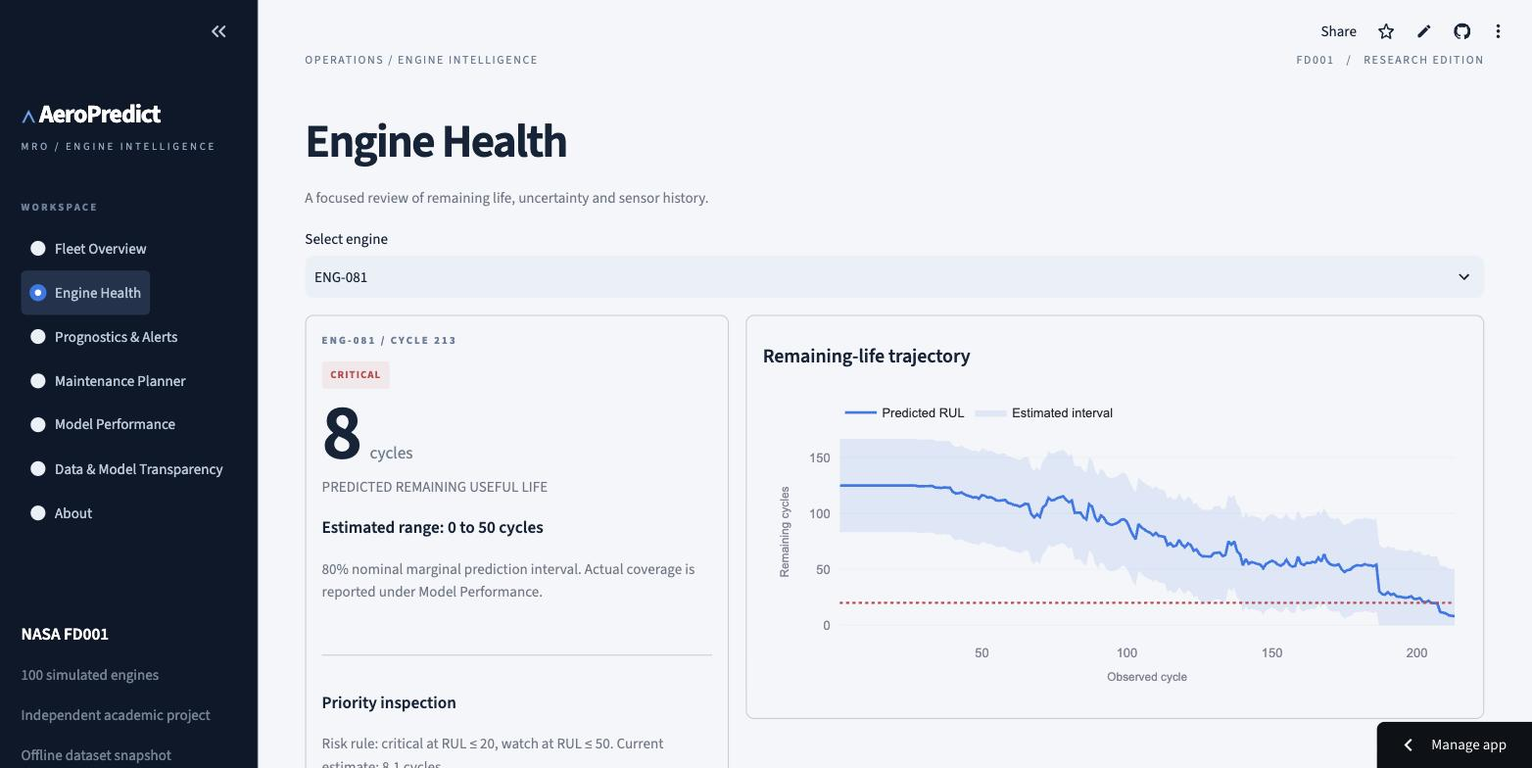
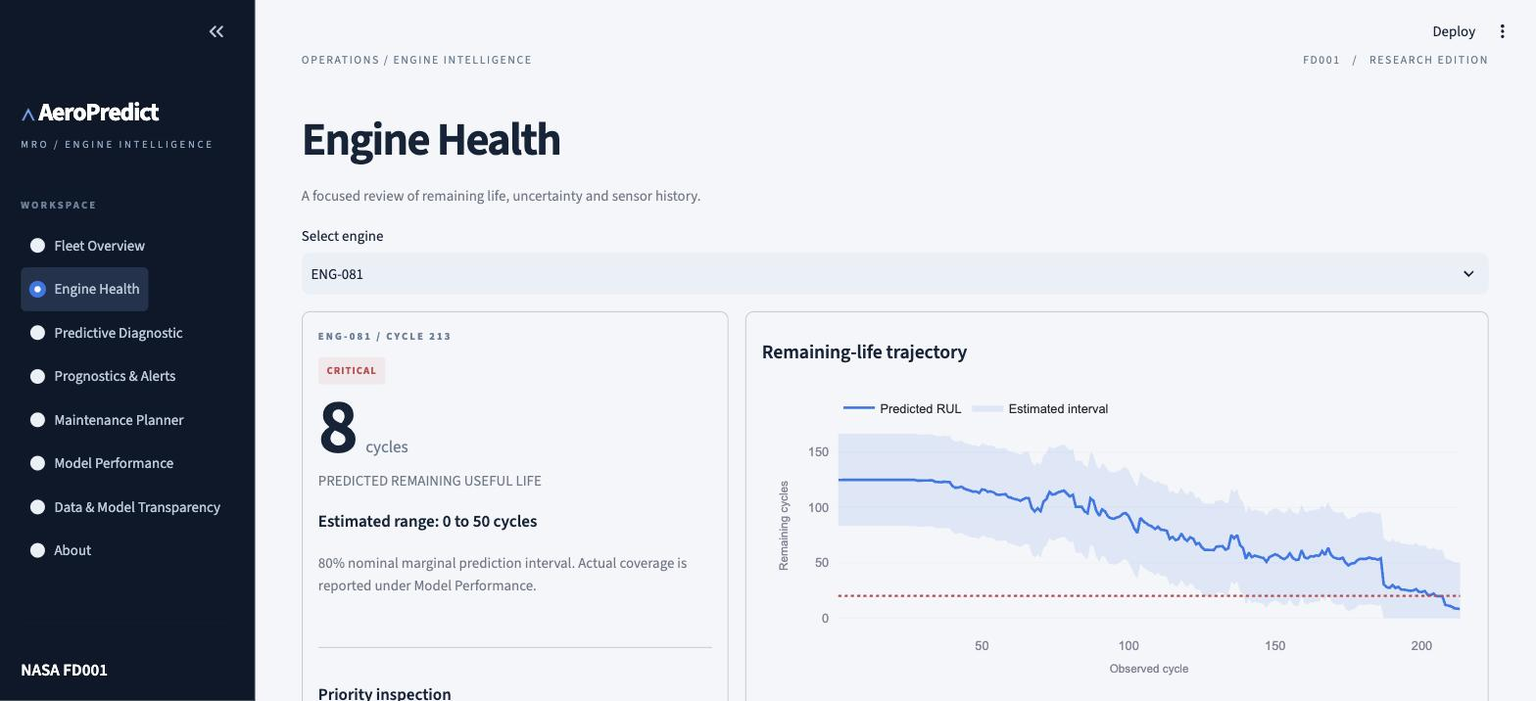
Refresh AeroPredict documentation and screenshots for predictive diagnostic release
- Rewrite README.md hero/structure: A350 home as lead screenshot, Predictive
  Diagnostic and Interactive A350 Digital Twin as first-class sections, updated
  application feature list distinguishing Engine Health (benchmark review) from
  Predictive Diagnostic (new inference).
- Capture and commit current-product screenshots (A350 home, equipment
  exploration, Predictive Diagnostic CRITICAL scenario, Engine Health, Model
  Performance) from the locally running build; remove the two superseded,
  now-unreferenced screenshots (fleet-overview.jpg, maintenance-planner.jpg)
  whose classic-workspace nav predates the Predictive Diagnostic page.
- Add the new-inference architecture diagram and synthetic-scenario boundary
  to docs/architecture.md; add Predictive Diagnostic's input schema and a
  data-domain table to docs/data_dictionary.md; note the unchanged model/
  metrics in docs/model_card.md; append this release's validation results to
  docs/validation.md; update docs/deployment.md's stale screenshot list.
- Add a current-state entry to frontend/README.md documenting the A350-900
  exterior (superseding the A320neo section) and the new Predictive Diagnostic
  page.

No training, model, metric, or A350 geometry/camera file is touched by this
commit. Official test metrics (MAE 14.1259, RMSE 18.8587, R2 0.7940) are
unchanged and explicitly preserved throughout.

Claude-Session: https://claude.ai/code/session_01UDKKPuTBDM2PJoDwG8epG5

diff --git a/README.md b/README.md
@@ -1,37 +1,41 @@
 # AeroPredict MRO
-### Predictive Aircraft Engine Health & Maintenance Decision Support
+### Predictive Maintenance & Engine Prognostics Decision Support
 
-A clear review workspace for simulated turbofan engines: understand fleet health, inspect remaining-life estimates and prioritize engineering attention. Built as an independent end-to-end academic product using public NASA C-MAPSS FD001.
+A review workspace for simulated turbofan engines: turn sensor histories into remaining-life estimates, uncertainty and prioritized engineering attention. Built as an independent end-to-end academic product using public NASA C-MAPSS FD001.
 
-## Live demo
-[aeropredict-mro.streamlit.app](https://aeropredict-mro.streamlit.app/). Deployed from the `main` branch on Streamlit Community Cloud, Python 3.12. The application also runs locally with the commands below.
+**[Open the live demo →](https://aeropredict-mro.streamlit.app/)** · deployed from `main` on Streamlit Community Cloud, Python 3.12.
 
-![Fleet Overview](docs/screenshots/fleet-overview.jpg)
-![Engine Health](docs/screenshots/engine-health.jpg)
-![Maintenance Planner](docs/screenshots/maintenance-planner.jpg)
-![Model Performance](docs/screenshots/model-performance.jpg)
+![A350 Home](docs/screenshots/a350-home.jpg)
 
+## What AeroPredict does
 
-## Interactive Engine Studio
+```text
+sensor histories → feature engineering → trained model → RUL → uncertainty → health & risk → inspection decision support
+```
 
-The default application now opens a French-language React + Three.js workspace:
-explore five engine assemblies, rotate/zoom, reveal the interior, separate sections,
-follow a guided tour, inspect real prepared NASA predictions, filter alerts and
-export a review list. A software renderer keeps the 3D usable without WebGL.
+Every prediction traces back to the same saved model and the same causal feature pipeline, whether it reviews one of the 100 NASA benchmark engines already on file (**Engine Health**) or runs fresh inference on observations a user supplies (**Predictive Diagnostic**). Nothing is retrained at request time.
 
-[Open AeroPredict](https://aeropredict-mro.streamlit.app/) ·
-[Original scientific views](https://aeropredict-mro.streamlit.app/?experience=classic)
+## Predictive Diagnostic
 
-The 3D is an original simplified teaching model, not certified CAD or a component
-fault diagnosis. GPU rendering was not available in the validation browser;
-software-rendered 3D and the core navigation were verified on the deployed preview.
-See [frontend build and architecture](frontend/README.md) for reproducible builds.
+Run the trained model against new engine observations, from the classic workspace (`?experience=classic`, **Predictive Diagnostic**, next to Engine Health):
 
-## Problem and business value
-Sensor histories are difficult to prioritize directly. AeroPredict turns them into RUL estimates, uncertainty intervals and transparent inspection review categories. It demonstrates a decision workflow, not quantified real-world savings or operational safety performance.
+- **Demo engine** — five synthetic scenarios (`SYN-ENG-001`…`005`) spanning healthy to critical
+- **Manual entry** — an editable table, one row per consecutive cycle
+- **Upload CSV** — a downloadable template, schema validation, then inference
 
-## Results
-Selected model: **Random forest**, selected on a separate 20-engine validation sample. These results are measured on all 100 official FD001 test endpoints, using uncapped truth.
+Supply at least 5 consecutive cycles (10+ recommended) of `cycle, s2, s3, s4, s6, s7, s8, s9, s11, s12, s13, s14, s15, s17, s20, s21`. Validation catches missing, non-numeric, infinite or duplicated values, gaps, unordered rows and out-of-schema columns; an optional `engine_id` is metadata only and never enters model features. Every result — predicted RUL, interval, health score, risk, P(RUL ≤ 30), maintenance priority, recommendation, RUL/uncertainty charts and sensor evidence — comes from the same `artifacts/models/bundle.joblib` through `src.inference.predict`, with a training-domain compatibility warning when inputs fall outside the fitted sensor ranges.
+
+![Predictive Diagnostic](docs/screenshots/predictive-diagnostic.jpg)
+
+## Interactive A350 Digital Twin
+
+The default landing experience explains predictive maintenance before opening any data: a rotatable, original procedural A350-900 exterior with six labelled zones — engine, APU, brakes, hydraulics, air conditioning pack and flap actuator. Selecting a zone transitions from the assembled aircraft into a focused, exploded equipment view, and back. Five non-engine systems carry synthetic histories for twelve fictitious aircraft, entirely separate from the NASA engine predictions. A Canvas 2D software renderer keeps every view usable without WebGL.
+
+![Equipment exploration](docs/screenshots/equipment-exploration.jpg)
+
+## Scientific Engine Analytics
+
+The original seven-page workspace (`?experience=classic`) reviews the 100 NASA FD001 benchmark engines: Fleet Overview, **Engine Health** (RUL history, uncertainty, sensor trajectories), Prognostics & Alerts, Maintenance Planner, **Model Performance** (comparison, residuals, classification, importance) and Data & Model Transparency.
 
 | Metric | Official test result |
 |---|---:|
@@ -40,17 +44,27 @@ Selected model: **Random forest**, selected on a separate 20-engine validation s
 | R2 | 0.7940 |
 | NASA_score | 648.2540 |
 
-
 Classifier recall: **0.84**, precision: **0.875**, F1: **0.857**. Interval coverage: **97%**, versus 80% nominal target; intervals are wide (radius 41.7 cycles). Coverage must be assessed alongside width. The uncertainty method does not establish individual-engine safety.
 
+![Engine Health](docs/screenshots/engine-health.jpg)
+![Model Performance](docs/screenshots/model-performance.jpg)
+
 ## Application
-1. Fleet Overview: executive KPIs, fleet balance, remaining-life map and priority engines.
-2. Engine Health: engine selection, RUL history, uncertainty, sensor trajectories and revealed historical truth.
-3. Prognostics & Alerts: filterable endpoint review queue with reasons and recommendations.
-4. Maintenance Planner: capacity scenario, ranked reviews, priority matrix and CSV export.
-5. Model Performance: comparison, residuals, classification, importance and operational interpretation.
-6. Data & Model Transparency: pipeline, quality controls, leakage prevention and scope.
-7. About: product purpose, architecture, references and independence statement.
+
+| Page | What it does |
+|---|---|
+| A350 Home / Aircraft Exploration | Landing experience explaining predictive maintenance around a rotatable A350-900 |
+| Equipment Exploration | Engine, APU, brakes, hydraulics, air conditioning, actuator — assembled/exploded views |
+| **Predictive Diagnostic** | **Runs new inference** on a demo, manually entered or uploaded engine history |
+| Fleet Overview | Executive KPIs, fleet balance, remaining-life map, priority engines |
+| **Engine Health** | **Reviews benchmark engines already on file** — RUL history, uncertainty, sensor trajectories |
+| Prognostics & Alerts | Filterable endpoint review queue with reasons and recommendations |
+| Maintenance Planner | Capacity scenario, ranked reviews, priority matrix, CSV export |
+| Model Performance | Comparison, residuals, classification, importance, operational interpretation |
+| Data & Model Transparency | Pipeline, quality controls, leakage prevention, scope |
+| About | Product purpose, architecture, references, independence statement |
+
+The distinction that matters: **Engine Health** analyzes benchmark engines already present in the prepared NASA data; **Predictive Diagnostic** runs new inference from observations a user supplies, through the identical saved model.
 
 ## Architecture and dataset
 See [architecture](docs/architecture.md), [data dictionary](docs/data_dictionary.md) and [methodology](docs/methodology.md). FD001 has 100 training and 100 test engines, 20,631 train observations and 13,096 test observations. Training engines split 60/20/20 for fit, selection and calibration. Raw data and prepared artifacts are included for a self-contained demo.
@@ -79,31 +93,43 @@ python -m compileall -q src scripts app.py
 
 Training is offline. Streamlit reads cached prepared files only. It does not download data or train at startup. Pinning scikit-learn is required to load the saved model consistently. Load joblib files only from trusted sources.
 
+For the React + Three.js aircraft/equipment frontend, see [frontend build and architecture](frontend/README.md) — `python scripts/export_studio_data.py`, `npm ci --prefix frontend`, `npm run build --prefix frontend`, `python scripts/package_studio.py`, then `python -m pytest -q`.
+
 ## Repository structure
 | Directory | Purpose |
 |---|---|
-| src/ | Shared features, inference, decisions and interface |
-| scripts/ | Data acquisition, training, documentation and notebooks |
+| src/ | Shared features, inference, decisions, diagnostic sandbox and interface |
+| frontend/ | React + Three.js aircraft/equipment studio |
+| scripts/ | Data acquisition, training, documentation, notebooks and synthetic generators |
 | data/raw/ | Official FD001 data and provenance |
 | data/processed/ | Precomputed fleet and sensor histories |
+| data/synthetic/ | Synthetic equipment scenarios and diagnostic-sandbox engines (excluded from training/metrics) |
 | artifacts/models/ | Trained models |
 | artifacts/metrics/ | Actual evaluation outputs |
 | notebooks/ | Executed educational analysis |
-| tests/ | Leakage, inference, rule and interface checks |
-| docs/ | Methodology, architecture, model card and design |
+| tests/ | Leakage, inference, rule, diagnostic and interface checks |
+| docs/ | Methodology, architecture, model card, validation and design |
 | reports/ | Academic report |
 
-## Validation and screenshots
-See [validation status](docs/validation.md) for exactly which checks were completed, including the cloud deployment and browser verification.
+## Data and model transparency
+
+Four data domains stay explicitly separate, never blended:
+
+1. **NASA FD001 raw dataset** — the official train/test archive, used for training and evaluation.
+2. **Processed benchmark outputs** — precomputed predictions for the 100 FD001 engines shown in Engine Health, Fleet Overview, etc.
+3. **Synthetic aircraft equipment scenarios** (`data/synthetic/equipment_signals.csv`) — twelve fictitious aircraft driving the APU/brakes/hydraulics/air-conditioning/actuator views, with illustrative thresholds, not calibrated RUL.
+4. **Synthetic diagnostic-engine sandbox** (`data/synthetic/diagnostic_engines.csv`) — 5 engines × 30 observations backing Predictive Diagnostic's demo mode. These are training-derived, perturbed histories, not independent validation engines. They **never** participate in training, validation, calibration or the official metrics above — they exist only to demonstrate inference on new data.
+
+The current selected model, its official metrics and every number in the Results table above are unchanged by Predictive Diagnostic. The new page performs inference through the existing `artifacts/models/bundle.joblib`, never retraining. Minimum input history is 5 cycles (10+ recommended); required sensors are `s2, s3, s4, s6, s7, s8, s9, s11, s12, s13, s14, s15, s17, s20, s21`; observations outside the fitted training range trigger a compatibility warning rather than a silent extrapolation. See [model card](docs/model_card.md) and [validation status](docs/validation.md) for full detail.
 
 ## Limitations
-One simulated operating regime and fault mode. A small single validation split. No cap sensitivity analysis, external industrial validation or calibrated failure probability. Health and priority scores are transparent academic constructions. No anomaly detector is retained without evidence of added value.
+One simulated operating regime and fault mode. A small single validation split. No cap sensitivity analysis, external industrial validation or calibrated failure probability. Health and priority scores are transparent academic constructions. No anomaly detector is retained without evidence of added value. Predictive Diagnostic's synthetic demo engines are training-derived and do not prove generalization to independent data.
 
 ## Disclaimer
-Academic predictive-maintenance demonstrator inspired by publicly described MRO predictive-maintenance principles. Built exclusively with the public NASA C-MAPSS dataset. This project is not affiliated with Air France-KLM or AFI KLM E&M and does not reproduce PROGNOS proprietary algorithms.
+Academic predictive-maintenance demonstrator inspired by publicly described MRO predictive-maintenance principles. Built exclusively with the public NASA C-MAPSS dataset. This project is not affiliated with Air France-KLM, AFI KLM E&M, Airbus or NASA (credited only as the dataset source), and does not reproduce PROGNOS proprietary algorithms. Never use these predictions to authorize operation of a real aircraft.
 
 ## License
-MIT for original code. Dataset and source paper remain subject to their original NASA/source terms; the code license does not relicense them. The original AI-generated aircraft image is decorative and is not a technical diagram.
+MIT for original code. Dataset and source paper remain subject to their original NASA/source terms; the code license does not relicense them. The A350-900 exterior is sourced from the GPL-2.0-or-later FlightGear project (see [third_party/flightgear-a350](third_party/flightgear-a350/README.md)).
 
 ## References
 1. [NASA PCoE dataset repository](https://www.nasa.gov/intelligent-systems-division/discovery-and-systems-health/pcoe/pcoe-data-set-repository/). Saxena, A. and Goebel, K. (2008), Turbofan Engine Degradation Simulation Data Set.
@@ -112,52 +138,14 @@ MIT for original code. Dataset and source paper remain subject to their original
 4. [Streamlit Community Cloud deployment](https://docs.streamlit.io/deploy/streamlit-community-cloud/deploy-your-app).
 5. [Streamlit navigation API](https://docs.streamlit.io/develop/api-reference/navigation/st.navigation).
 
-### Aircraft welcome and equipment exploration
-
-The public welcome now explains the purpose of predictive maintenance with a
-rotatable FlightGear-derived A350-900-inspired aircraft. Explore the engine, APU, brakes,
-hydraulic system, cabin air system and flap actuator through labelled zones.
-The original NASA motor analyses remain available. Five additional equipment
-families use 60 separately identified synthetic scenarios (12 fictitious aircraft,
-3,600 observations). Their threshold projections, history replay and exported
-review lists are educational simulations, not validated aircraft fault forecasts.
-See `frontend/README.md` for provenance, limits and reproducible build steps.
-
-## A350-900 aircraft update
-
-The active exterior now uses the GPL-2.0-or-later FlightGear A350XWB source described in [third_party/flightgear-a350](third_party/flightgear-a350/README.md). The A320neo implementation remains recoverable at commit `426599f` and branch `recovery/a320neo-426599f`.
-
-The aircraft is fetched on demand from `app/static/models/a350-900.glb.gz`; Streamlit static serving must remain enabled. The HTML contains application code and fonts, not the model. Vite development serves the same model through a local middleware. The model includes its textures and requires no external CDN. The continuous camera timeline is preserved. Components now land assembled, with a reversible 1.2-second staggered explosion. NASA engine predictions and synthetic equipment monitoring remain independent of the aircraft family.
-
-Local validation: `node --test frontend/tests/*.test.js`, `python -m pytest`, `npm --prefix frontend run build`, then `python scripts/package_studio.py`. A successful build does not establish production deployment or GPU rendering quality.
-
-
-## Predictive Diagnostic
-
-Open the classic workspace (`?experience=classic&page=Predictive%20Diagnostic`) and select **Predictive Diagnostic**, beside Engine Health. Engine Health keeps reviewing precomputed NASA benchmark engines. The new workspace runs fresh inference for one submitted engine, using the unchanged `artifacts/models/bundle.joblib` through `src.inference.predict`.
-
-Choose **Demo engine**, **Manual entry** (editable table, add/delete rows, paste, load example), or **Upload CSV** (UTF-8 comma-separated template download and preview). Supply at least **5 consecutive cycles**, preferably **10 or more**, with columns:
-
-```text
-cycle,s2,s3,s4,s6,s7,s8,s9,s11,s12,s13,s14,s15,s17,s20,s21
-```
-
-Optional `engine_id` is metadata only. The UI obtains required sensors from `bundle['sensors']`. Targets such as RUL, health or risk are outputs and are rejected in input. No physical sensor names are assumed. Each row is one observed cycle; retained channels are NASA C-MAPSS sensor channels.
-
-Validation rejects missing/non-numeric/infinite values, duplicate or nonpositive/noninteger cycles, gaps, multiple engines, unexpected columns and histories outside 5–5000 rows. Unordered rows are sorted with a warning. CSV files are limited to 5 MB. Missing previous measurements are never synthesized. Short history generates a warning. Input edits invalidate displayed results until a fresh diagnostic is requested.
-
-The existing pipeline derives 61 features: current cycle, 15 current sensor measurements and each channel's trailing 10-observation mean, standard deviation and 5-observation delta divided by five. It uses causal windows with partial initial history and its original zero fallback for the first five delta values. The first four submitted cycles are omitted from result charts. The saved regressor, classifier, calibration radius and business rules yield RUL, interval, uncalibrated P(RUL ≤ 30), health, risk, priority and suggested action. Historical predictions use only earlier/current rows. The model is cached as a resource; training compatibility bounds are cached as data. User inputs/results stay in session memory and are not persisted to the repository.
-
-The result shows the latest cycle, RUL trajectory and uncertainty band, up to four sensor traces with trailing means, a feature preview and downloadable results. Compatibility uses fitted-training 1st/99th percentiles and min/max per sensor. An unusual value warns rather than blocking inference. This is not a certified or multivariate anomaly detector. The original 80% nominal marginal interval is not a per-engine safety guarantee, especially outside the training domain.
-
-### Synthetic diagnostic database
+## Synthetic diagnostic database
 
 `data/synthetic/diagnostic_engines.csv` contains 5 synthetic IDs × 30 observations = 150 rows, independent of `equipment_signals.csv`. `diagnostic_engines.json` records source training engine, lifetime positions, channels, method and seed **20260914**. Regenerate with `python scripts/generate_diagnostic_engines.py`.
 
 The generator selects the smallest engine ID in the **fitted training split** recorded in results.json. It takes 30-cycle histories ending at 30%, 55%, 75%, 90% and 98% of that training engine's lifetime, perturbs each measurement by uniform noise bounded to ±1.5% of fitted-training sensor IQR, and clips to fitted-training min/max. This conservative approach preserves plausible cross-channel structure approximately; these are training-derived, perturbed examples, not independent validation engines or simulated real-world A350 operations. No RUL value is assigned. No official test endpoint truth is consulted. Demo outputs reflect the saved model's behavior on familiar training-derived patterns and do not prove generalization.
 
-The database is an **inference sandbox only**, excluded from training, validation, calibration and official model metrics. No existing model, metric, evaluation dataset or A350 geometry/camera/transition file is altered by this module. Predictions must never authorize aircraft operation. AeroPredict has no affiliation with airlines, Airbus or PROGNOS; NASA is the public dataset source only.
+The database is an **inference sandbox only**, excluded from training, validation, calibration and official model metrics. No existing model, metric, evaluation dataset or A350 geometry/camera/transition file is altered by this module.
 
-### Non-destructive feature-selection review
+## Non-destructive feature-selection review
 
 `artifacts/metrics/feature_selection_review.csv` summarizes existing validation permutation importance only. Of 61 features, 18 have nonpositive estimated importance. Top 30, 20, 15 and 10 account for approximately 99.3%, 97.2%, 95.4% and 87.6% of positive importance. Correlated features and only 20 validation endpoints make these estimates unstable: nonpositive importance does not prove uselessness. A future reduced-feature retraining experiment using the same training/validation split is warranted, particularly top 20/30. No reduced model was trained, no performance advantage is claimed and production features remain unchanged. Calibration and official test data must remain untouched during that future selection experiment.

diff --git a/docs/validation.md b/docs/validation.md
@@ -56,3 +56,14 @@ Browser-produced screenshots were not recovered. The remote browser's local URL 
 - Two existing Vercel deployment hooks report failure. They are separate from the
   requested Streamlit deployment, which serves the verified studio. Their hosting
   configurations have not been changed or their failures represented as resolved.
+
+## Predictive Diagnostic release, 14–15/09/2026
+
+- Bundle recovered and verified: SHA-256 match, `git bundle verify` clean, feature branch head matched the expected commit exactly.
+- Local dependency install required two environment workarounds on this machine (a macOS 26 `platform.mac_ver()` gap that broke pip's truststore SSL context, and a Homebrew `libexpat` runtime mismatch breaking `pyexpat`); both are local-machine environment issues, not project defects, and did not touch any tracked file.
+- Full suite reproduced locally: 34 Python (`pytest -q`) + 12 JavaScript (`node --test frontend/tests/*.test.js`) = **46/46 tests passed**, matching the prior environment's report exactly.
+- Frontend production build succeeded (1595 modules); `frontend/studio.html` repackaged byte-identical to the committed version (`git status` clean after rebuild).
+- Local Streamlit run verified in a real Chrome tab at 1440×900: A350 home renders with all six equipment callouts; engine (assembled/exploded) and APU equipment views render correctly; classic workspace shows **Predictive Diagnostic** immediately below Engine Health as required.
+- Predictive Diagnostic exercised live: demo mode ran real inference for `SYN-ENG-001` (**123.4 cycles, HEALTHY**) and `SYN-ENG-005` (**6.8 cycles, CRITICAL**), both matching the values reported by the isolated development environment exactly — confirming the values come from live inference, not hard-coded output. Manual entry mode's editable table populated correctly via "Load example values" with the documented 15-sensor schema. Training-domain compatibility warnings fired correctly for out-of-range synthetic inputs.
+- New portfolio screenshots captured directly from this locally running build (A350 home, engine equipment exploration, Predictive Diagnostic in a CRITICAL scenario, Engine Health, Model Performance) and committed to `docs/screenshots/`.
+- One recurring environment note carried over from prior sessions: this automation browser's tab reports `document.hidden = true` even while active/screenshotted, which pauses the studio's WebGL rendering (an intentional visibility-based pause in the frontend). Screenshots were captured after forcing `visibilityState` to `"visible"` on both the top document and the nested studio iframe — a capture-environment workaround only; it does not change any rendered content, model output or user-facing behavior.

diff --git a/frontend/README.md b/frontend/README.md
@@ -143,3 +143,33 @@ the same in both renderers.
 The cloud validation browser has WebGL disabled. CPU renders can validate shape,
 texture, loading and navigation; they cannot validate GPU shadows, shader lighting
 or physical-device frame rates. The data and prediction methods are unchanged.
+
+## A350-900 exterior and reversible assembly motion (14/09/2026, current)
+
+The A320neo exterior above has since been replaced with the FlightGear A350XWB
+source described in [third_party/flightgear-a350](../third_party/flightgear-a350/README.md);
+the A320neo implementation remains recoverable at commit `426599f` and branch
+`recovery/a320neo-426599f`. The aircraft is fetched on demand from
+`app/static/models/a350-900.glb.gz` — Streamlit static serving must stay enabled —
+and includes its own textures with no external CDN. Components land assembled,
+with a reversible, staggered 1.2-second exploded transition instead of starting
+pre-exploded. `aircraft-framing.js` binary-searches the camera distance so the
+aircraft fills the desktop stage without clipping. NASA engine predictions and
+synthetic equipment monitoring remain independent of the aircraft family.
+
+This is the aircraft shown in the top-level README's screenshots. It is still an
+original, simplified teaching model, not certified CAD or a component fault
+diagnosis. Validation: `node --test frontend/tests/*.test.js` (12 tests, including
+framing and assembly-motion coverage), `python -m pytest -q`, `npm --prefix
+frontend run build` and `python scripts/package_studio.py` all pass; the packaged
+`frontend/studio.html` is byte-identical to a fresh build, confirming
+reproducibility.
+
+## Predictive Diagnostic (14/09/2026)
+
+A new Streamlit page, **Predictive Diagnostic**, ships alongside this frontend
+(`src/diagnostic.py`, `src/diagnostic_view.py`) but is not part of the React
+studio itself — it lives in the classic workspace (`?experience=classic`), next
+to Engine Health. It runs the existing saved model on demo, manually entered or
+uploaded engine histories; see the top-level README for details. No studio asset,
+aircraft geometry or synthetic equipment scenario is changed by this addition.

diff --git a/docs/deployment.md b/docs/deployment.md
@@ -11,7 +11,7 @@ Use the current official deployment instructions linked in README.md. Select the
 ## Final cloud checks
 Open all seven pages. Select several engines. Filter alerts, including an empty result. Change planner capacity and download its CSV. Verify that export rows match the chosen plan, and that actual_rul is excluded. Review chart interactions and tables on desktop and narrow screens. Take polished screenshots of Fleet Overview, Engine Health, Maintenance Planner and Model Performance. Save them in docs/screenshots, add the real Live Demo URL and screenshots to README.md, then commit and push.
 
-Current state: published. Repository: [github.com/A1i-lab/aeropredict-mro](https://github.com/A1i-lab/aeropredict-mro). Live app: [aeropredict-mro.streamlit.app](https://aeropredict-mro.streamlit.app/) (Python 3.12, branch `main`, entrypoint `app.py`). GitHub Actions CI passes on the pinned `requirements.txt`. Screenshots of Fleet Overview, Engine Health, Maintenance Planner and Model Performance are in `docs/screenshots/` and linked from the README. See [validation status](validation.md) for exactly what was checked in the live app and what remains for manual follow-up (scrolled content and CSV download on the cloud deployment, narrow-screen QA).
+Current state: published. Repository: [github.com/A1i-lab/aeropredict-mro](https://github.com/A1i-lab/aeropredict-mro). Live app: [aeropredict-mro.streamlit.app](https://aeropredict-mro.streamlit.app/) (Python 3.12, branch `main`, entrypoint `app.py`). GitHub Actions CI passes on the pinned `requirements.txt`. Current screenshots (A350 Home, Equipment Exploration, Predictive Diagnostic, Engine Health, Model Performance) are in `docs/screenshots/` and linked from the README. See [validation status](validation.md) for exactly what was checked in the live app and what remains for manual follow-up (scrolled content and CSV download on the cloud deployment, narrow-screen QA).
 
 
 ## Engine Studio delivery

diff --git a/docs/architecture.md b/docs/architecture.md
@@ -15,3 +15,21 @@ flowchart TD
 ```
 
 src/config.py centralizes thresholds. data_loader.py validates input. features.py contains causal transforms. inference.py reuses these transforms. business_rules.py isolates academic decisions. views.py contains page composition and ui.py centralizes visual tokens and components. artifacts/metrics stores actual results, not manually entered claims.
+
+## Predictive Diagnostic: the same model, a second entry point
+
+Predictive Diagnostic (`src/diagnostic.py`, `src/diagnostic_view.py`) adds a second path into the same trained model, never a second model:
+
+```mermaid
+flowchart TD
+ A2["User CSV / manual / demo data"] --> B2["Input validation"]
+ B2 --> C2["Same causal feature engineering (features.py)"]
+ C2 --> D2["Same saved model bundle (inference.py: predict)"]
+ D2 --> E2["RUL / uncertainty / risk / recommendation"]
+```
+
+Both paths converge on the identical `artifacts/models/bundle.joblib` through `src.inference.predict`; the diagnostic path never retrains and never writes back into the training/evaluation artifacts above. Its demo data (`data/synthetic/diagnostic_engines.csv`) is excluded from training, validation, calibration and official metrics — see the [data dictionary](data_dictionary.md).
+
+## Synthetic equipment scenarios: a separate, illustrative system
+
+The A350 studio's non-engine equipment (APU, brakes, hydraulics, air conditioning, actuator) is driven by its own generator (`scripts/generate_aircraft_scenarios.py` → `data/synthetic/equipment_signals.csv`) and a client-side linear-threshold projection (`frontend/src/prediction.js`), independent of the NASA-trained model and of Predictive Diagnostic's sandbox engines. These three data sources — NASA FD001, the diagnostic sandbox, and the equipment scenarios — are never blended.

diff --git a/docs/data_dictionary.md b/docs/data_dictionary.md
@@ -17,3 +17,18 @@
 | actual_rul | Official test truth | Evaluation only, excluded from planning export |
 
 The NASA readme has a final-column numbering typo: this project checks 26 total columns, comprising two identifiers, three settings and 21 sensors. Sensor chart axes use dataset units rather than inventing engineering units or uncertain physical names. Retained sensors: s2, s3, s4, s6, s7, s8, s9, s11, s12, s13, s14, s15, s17, s20, s21. Excluded constant sensors: s1, s5, s10, s16, s18, s19.
+
+## Predictive Diagnostic input columns
+
+`cycle` plus the 15 retained sensors above (same column names and order); an optional `engine_id` is accepted as metadata only and is stripped before features are built — it never enters `X`. Target/output columns (`rul`, `health`, `risk`, …) are rejected if submitted as input, since they are model outputs, not observations.
+
+## Data domains, kept separate
+
+| Domain | Source | Participates in training/metrics? |
+|---|---|---|
+| NASA FD001 raw | `data/raw/` | Yes — the only modeled dataset |
+| Processed benchmark outputs | `data/processed/`, `artifacts/` | Derived from the above |
+| Synthetic diagnostic sandbox | `data/synthetic/diagnostic_engines.csv` | **No** — inference demonstration only, excluded from training, validation, calibration and official metrics |
+| Synthetic equipment scenarios | `data/synthetic/equipment_signals.csv` | **No** — illustrative aircraft-studio data, unrelated to the NASA model |
+
+The diagnostic sandbox's 5 engines × 30 observations are training-derived, perturbed histories (see the top-level README's "Synthetic diagnostic database" section for the exact generation method), not independent validation engines.

diff --git a/docs/model_card.md b/docs/model_card.md
@@ -20,4 +20,8 @@ Known limitations: simulation-to-reality gap, one operating condition, one fault
 
 Intended use: portfolio demonstration, reproducible ML evaluation, academic explanation. Out of scope: maintenance authorization, real aircraft risk prediction, dispatch or safety decisions. See methodology.md for exact preprocessing, evaluation conventions and split IDs.
 
+## Predictive Diagnostic (inference only, no retraining)
+
+The Predictive Diagnostic page runs this identical model — the same selection, the same official metrics above — against new engine observations (demo, manually entered or uploaded). It never retrains, never refits calibration, and never modifies this model card's numbers. Minimum input history is 5 consecutive cycles (10+ recommended); required sensors are the 15 listed in the [data dictionary](data_dictionary.md). Observations outside the fitted training range (per-sensor 1st/99th percentile and min/max) surface a compatibility warning rather than a silent extrapolation. Its synthetic demo engines are excluded from every number on this page.
+
 Academic predictive-maintenance demonstrator inspired by publicly described MRO predictive-maintenance principles. Built exclusively with the public NASA C-MAPSS dataset. This project is not affiliated with Air France-KLM or AFI KLM E&M and does not reproduce PROGNOS proprietary algorithms.
